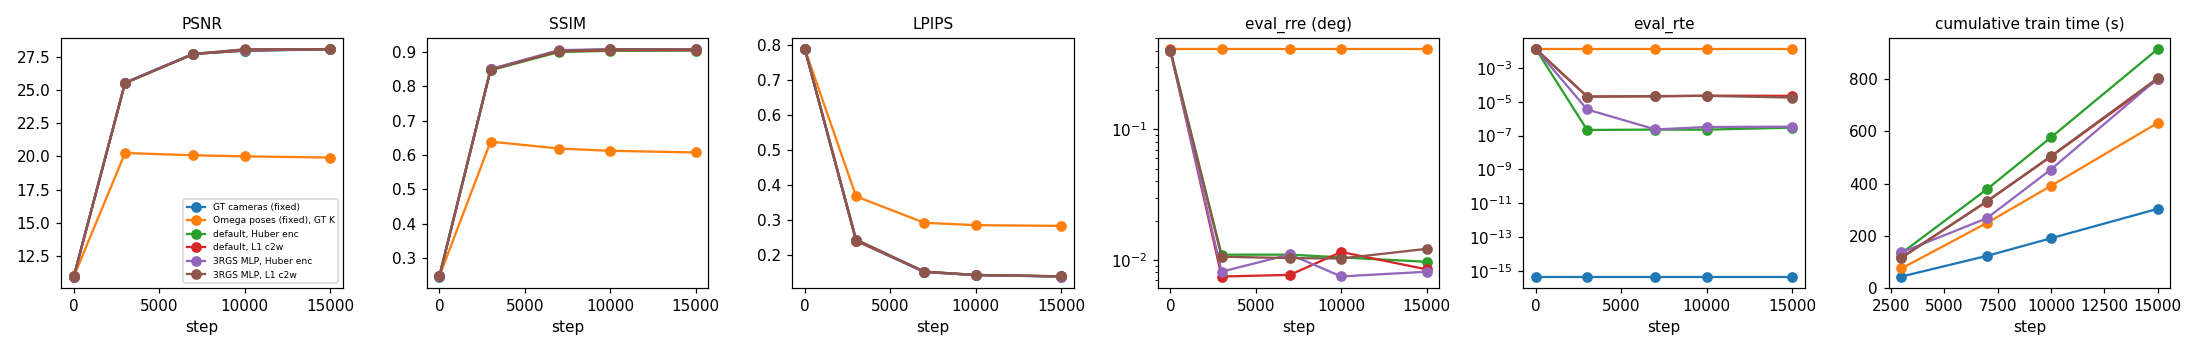
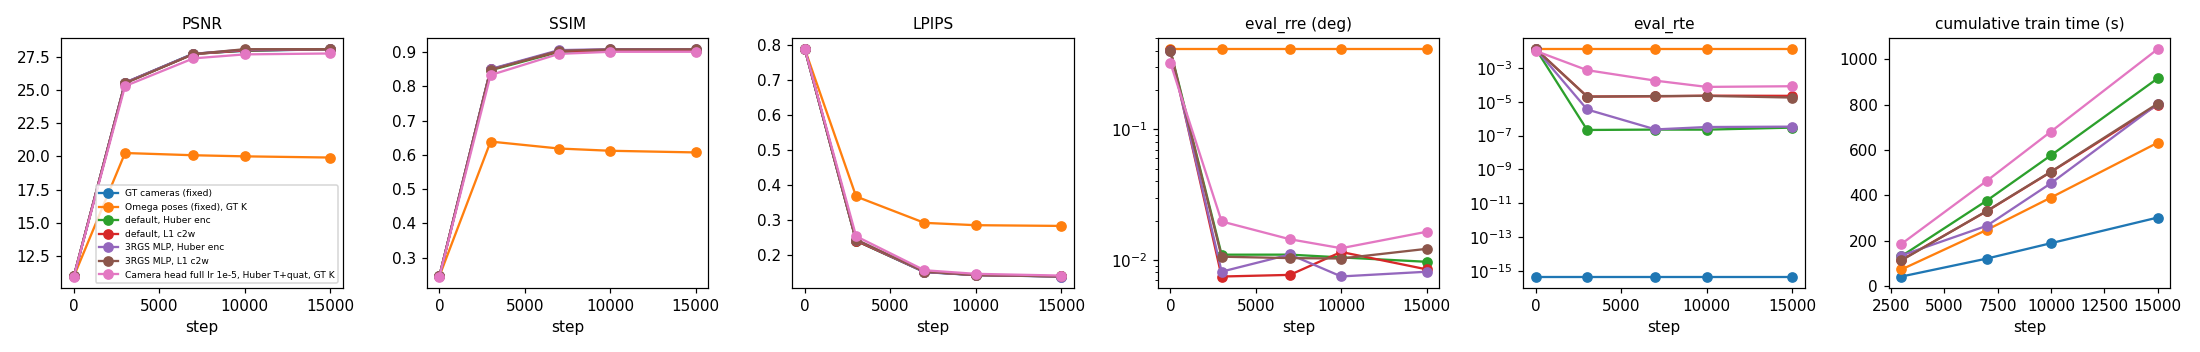
Log the head arm with GT intrinsics

diff --git a/experiments/2026-11-17_omega_pose_opt_modules/collect.py b/experiments/2026-11-17_omega_pose_opt_modules/collect.py
@@ -15,6 +15,7 @@ runs = [  # (experiment, arm, glob)
     ("gtk", "default, L1 c2w", "vggt_outputs/*cft-0.0001-pdef-d0-gtl1c2w-gtk" + E_),
     ("gtk", "3RGS MLP, Huber enc", "vggt_outputs/*cft-0.0001-mlp-d0-gtloss-gtk" + E_),
     ("gtk", "3RGS MLP, L1 c2w", "vggt_outputs/*cft-0.0001-mlp-d0-gtl1c2w-gtk" + E_),
+    ("gtk", "Camera head full lr 1e-5, Huber T+quat, GT K", "vggt_outputs/*cft-1e-05-full-d0-gtloss-nofov-gtk" + E_),
 ]
 rows = []
 for ex, arm, g in runs:

diff --git a/experiments/2026-11-17_omega_pose_opt_modules/README.md b/experiments/2026-11-17_omega_pose_opt_modules/README.md
@@ -19,7 +19,7 @@ Two experiments in `experiment_runner.py`, both starting from the VGGT-Omega cam
   - L1 c2w (`camft_gt_loss_type=l1_c2w`): mean absolute difference of the 3x4 camera-to-world matrices vs the aligned GT c2w, in the trainer's normalised frame.
 - Intrinsics: in `omega_pose_opt_loss` the intrinsics stay at each frame's initial Omega prediction (no module changes them). In `omega_pose_opt_gtk` (`camft_gt_k`) the intrinsics of every
   rendered training view are the GT intrinsics of that frame (GT principal point included) scaled to the training image size, fixed. The maximum absolute difference to the Omega K entries is 32.55 px.
-- The full camera head arm (7, `omega_pose_opt_loss` only) differs from the module arms in more than the module: it runs the head on all frames every step, its lr is 1e-5 (the earlier experiment's value, not 1e-4), its Huber loss is on all 9 pose-encoding dimensions including fov (the module arms use the 7 T + quaternion dimensions), and it was run on GPU 2 on 16 Nov. There is no GT-K variant of it.
+- The full camera head arm (7, `omega_pose_opt_loss` only) differs from the module arms in more than the module: it runs the head on all frames every step, its lr is 1e-5 (the earlier experiment's value, not 1e-4), its Huber loss is on all 9 pose-encoding dimensions including fov (the module arms use the 7 T + quaternion dimensions), and it was run on GPU 2 on 16 Nov. In `omega_pose_opt_gtk` arm 7 is a new run with GT K and the 7-dimension loss (fov dropped), so the two head arms differ in the loss dimensions as well as in K.
 - Reused results (same config as earlier runs, skipped by the runner): GT cameras fixed (also the first arm of `omega_pose_opt_gtk`), Omega cameras fixed, and the 3RGS + Huber arm with Omega K
   (arm 6 of `omega_camft_gt_15k`, run on GPU 0 on 17 Nov 06:43 to 07:00). The GT baseline and Omega baseline were not asked for specifically; I added them to the first experiment (and GT fixed to the second).
 - Extra run options introduced for this experiment: `camft_module` (`default` | `fixed`; `camft_mlp` = 3RGS), `camft_gt_loss_type`, `camft_gt_k`.
@@ -42,6 +42,8 @@ Two experiments in `experiment_runner.py`, both starting from the VGGT-Omega cam
 | 4 | default module, L1 c2w |
 | 5 | 3RGS MLP, Huber |
 | 6 | 3RGS MLP, L1 c2w |
+| 7 | Camera head (full, lr 1e-5, no LoRA), Huber on T + quaternion (fov dropped), GT K (`camft_gt_no_fov`, `camft_gt_k`); run 17 Nov 18:51 to 19:14 on GPU 0 through the same queue |
+| 7 | Camera head (full, lr 1e-5, no LoRA), Huber on T + quaternion (fov dropped), GT K (`camft_gt_no_fov`, `camft_gt_k`; run 17 Nov 18:51 to 19:14 on GPU 0, same queue) |
 
 ## Launch
 ```bash
@@ -104,12 +106,15 @@ PSNR / SSIM / LPIPS over the 252 evaluation images.
 | 4. default, L1 c2w | 10.95 / 0.246 / 0.789 | 25.56 / 0.849 / 0.242 | 27.73 / 0.902 / 0.153 | 28.01 / 0.905 / 0.143 | 28.09 / 0.905 / 0.140 |
 | 5. 3RGS MLP, Huber | 10.93 / 0.246 / 0.789 | 25.57 / 0.850 / 0.245 | 27.74 / 0.905 / 0.152 | 28.06 / 0.908 / 0.144 | 28.10 / 0.908 / 0.139 |
 | 6. 3RGS MLP, L1 c2w | 10.93 / 0.246 / 0.789 | 25.52 / 0.848 / 0.245 | 27.73 / 0.903 / 0.153 | 28.09 / 0.907 / 0.144 | 28.10 / 0.908 / 0.140 |
+| 7. Camera head, full lr 1e-5, GT K | 10.93 / 0.246 / 0.789 | 25.31 / 0.832 / 0.254 | 27.40 / 0.894 / 0.157 | 27.70 / 0.900 / 0.147 | 27.77 / 0.900 / 0.142 |
 
 The `eval_rre` / `eval_rte` values of arms 3 to 6 equal those of the same module and loss in the table above (rows 3 to 6 there, to the printed precision): in these arms the cameras are trained only by the GT
 loss and the rendered cameras are detached, so the camera trajectory does not depend on the intrinsics. Arm 2: 0.4134 / 1.30e-2 at every step.
 
+`eval_rre` (deg) / `eval_rte` of arm 7 (Camera head, full lr 1e-5, GT K): 0.3232 / 1.0e-2 (step 1), 0.0197 / 7.4e-4 (3000), 0.0144 / 1.8e-4 (7000), 0.0123 / 7.6e-5 (10000), 0.0164 / 8.3e-5 (15000).
+
 ![renders](figures/renders_gtk.jpg)
-(Rows: ground truth, arms 1 to 6.)
+(Rows: ground truth, arms 1 to 7.)
 
 ### Training time
 `train_time_s` at step 15000 and mean per step (cumulative wall time of the training steps; the GPU was shared with other users' jobs, see below):
@@ -122,7 +127,7 @@ loss and the rendered cameras are detached, so the camera trajectory does not de
 | 4. default, L1 c2w | 799 s | 53.3 | 799 s | 53.2 |
 | 5. 3RGS MLP, Huber | 658 s (reused, run 17 Nov 06:43 to 07:00) | 43.9 | 802 s | 53.5 |
 | 6. 3RGS MLP, L1 c2w | 692 s | 46.1 | 804 s | 53.6 |
-| 7. Camera head, full lr 1e-5 | 1046 s (reused, GPU 2, 16 Nov) | 69.7 | not run | |
+| 7. Camera head, full lr 1e-5 | 1046 s (reused, GPU 2, 16 Nov) | 69.7 | 1044 s (GPU 0, 17 Nov 18:51 to 19:14) | 69.6 |
 
 Arms 1 and 2 of `omega_pose_opt_loss` and the GT arm of `omega_pose_opt_gtk` are reused from the runs on GPU 2 (16 Nov).
 
